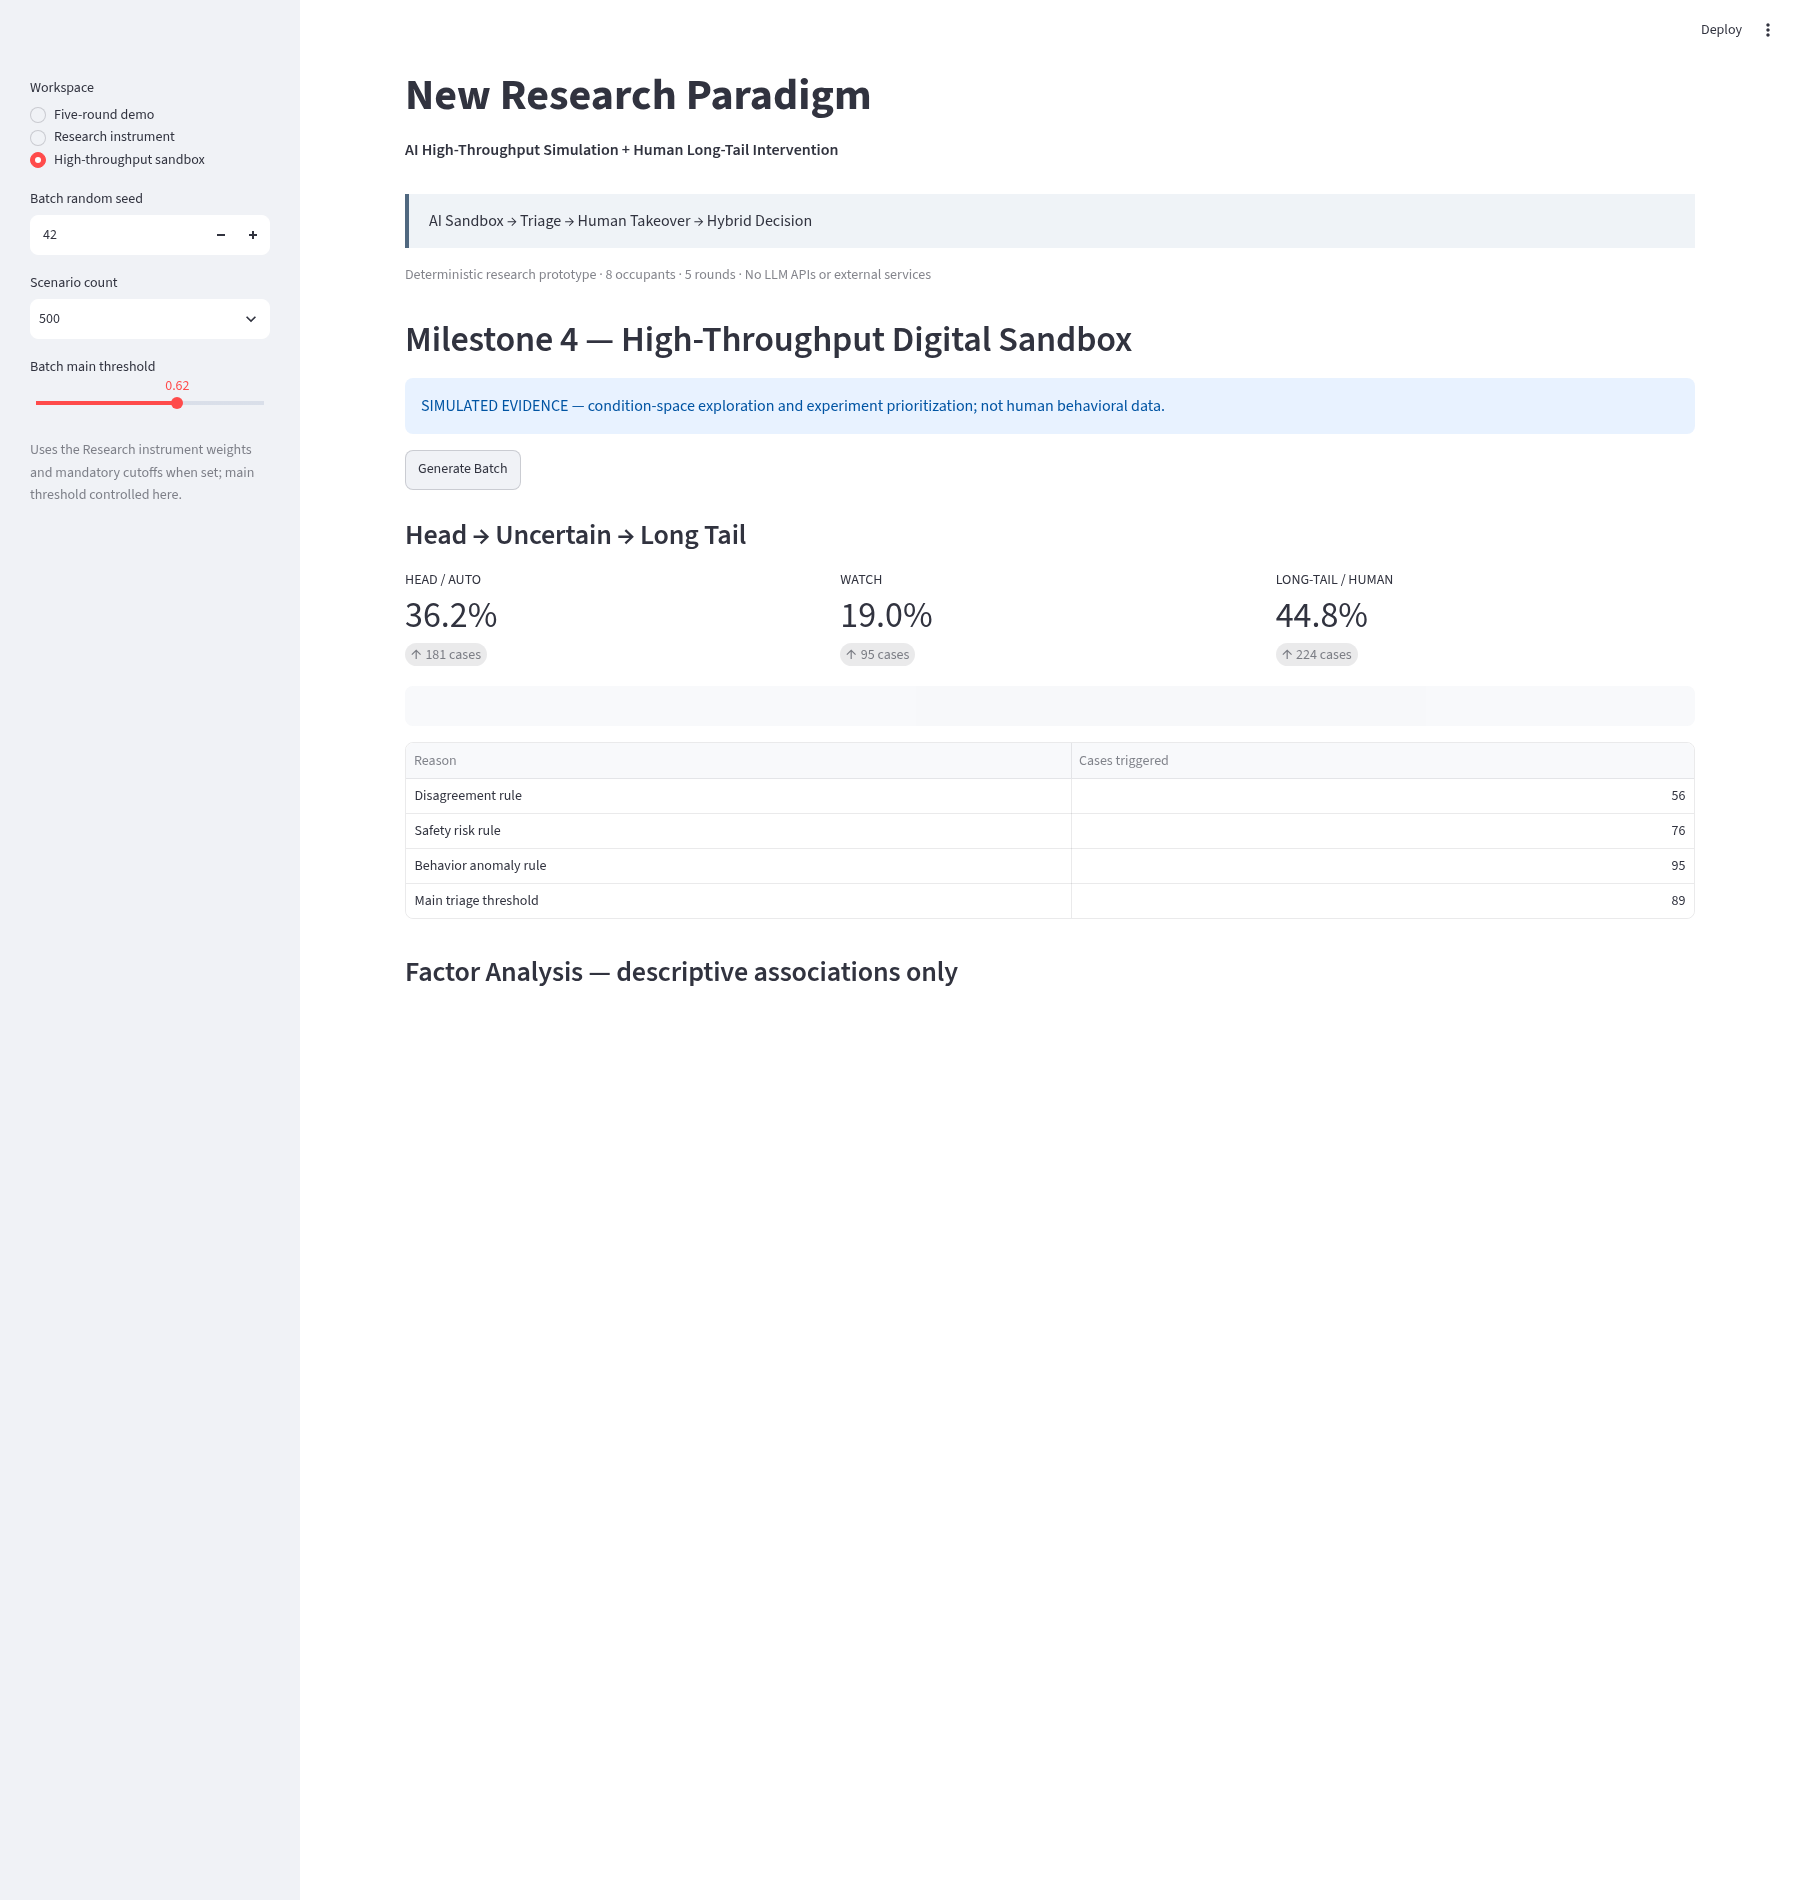
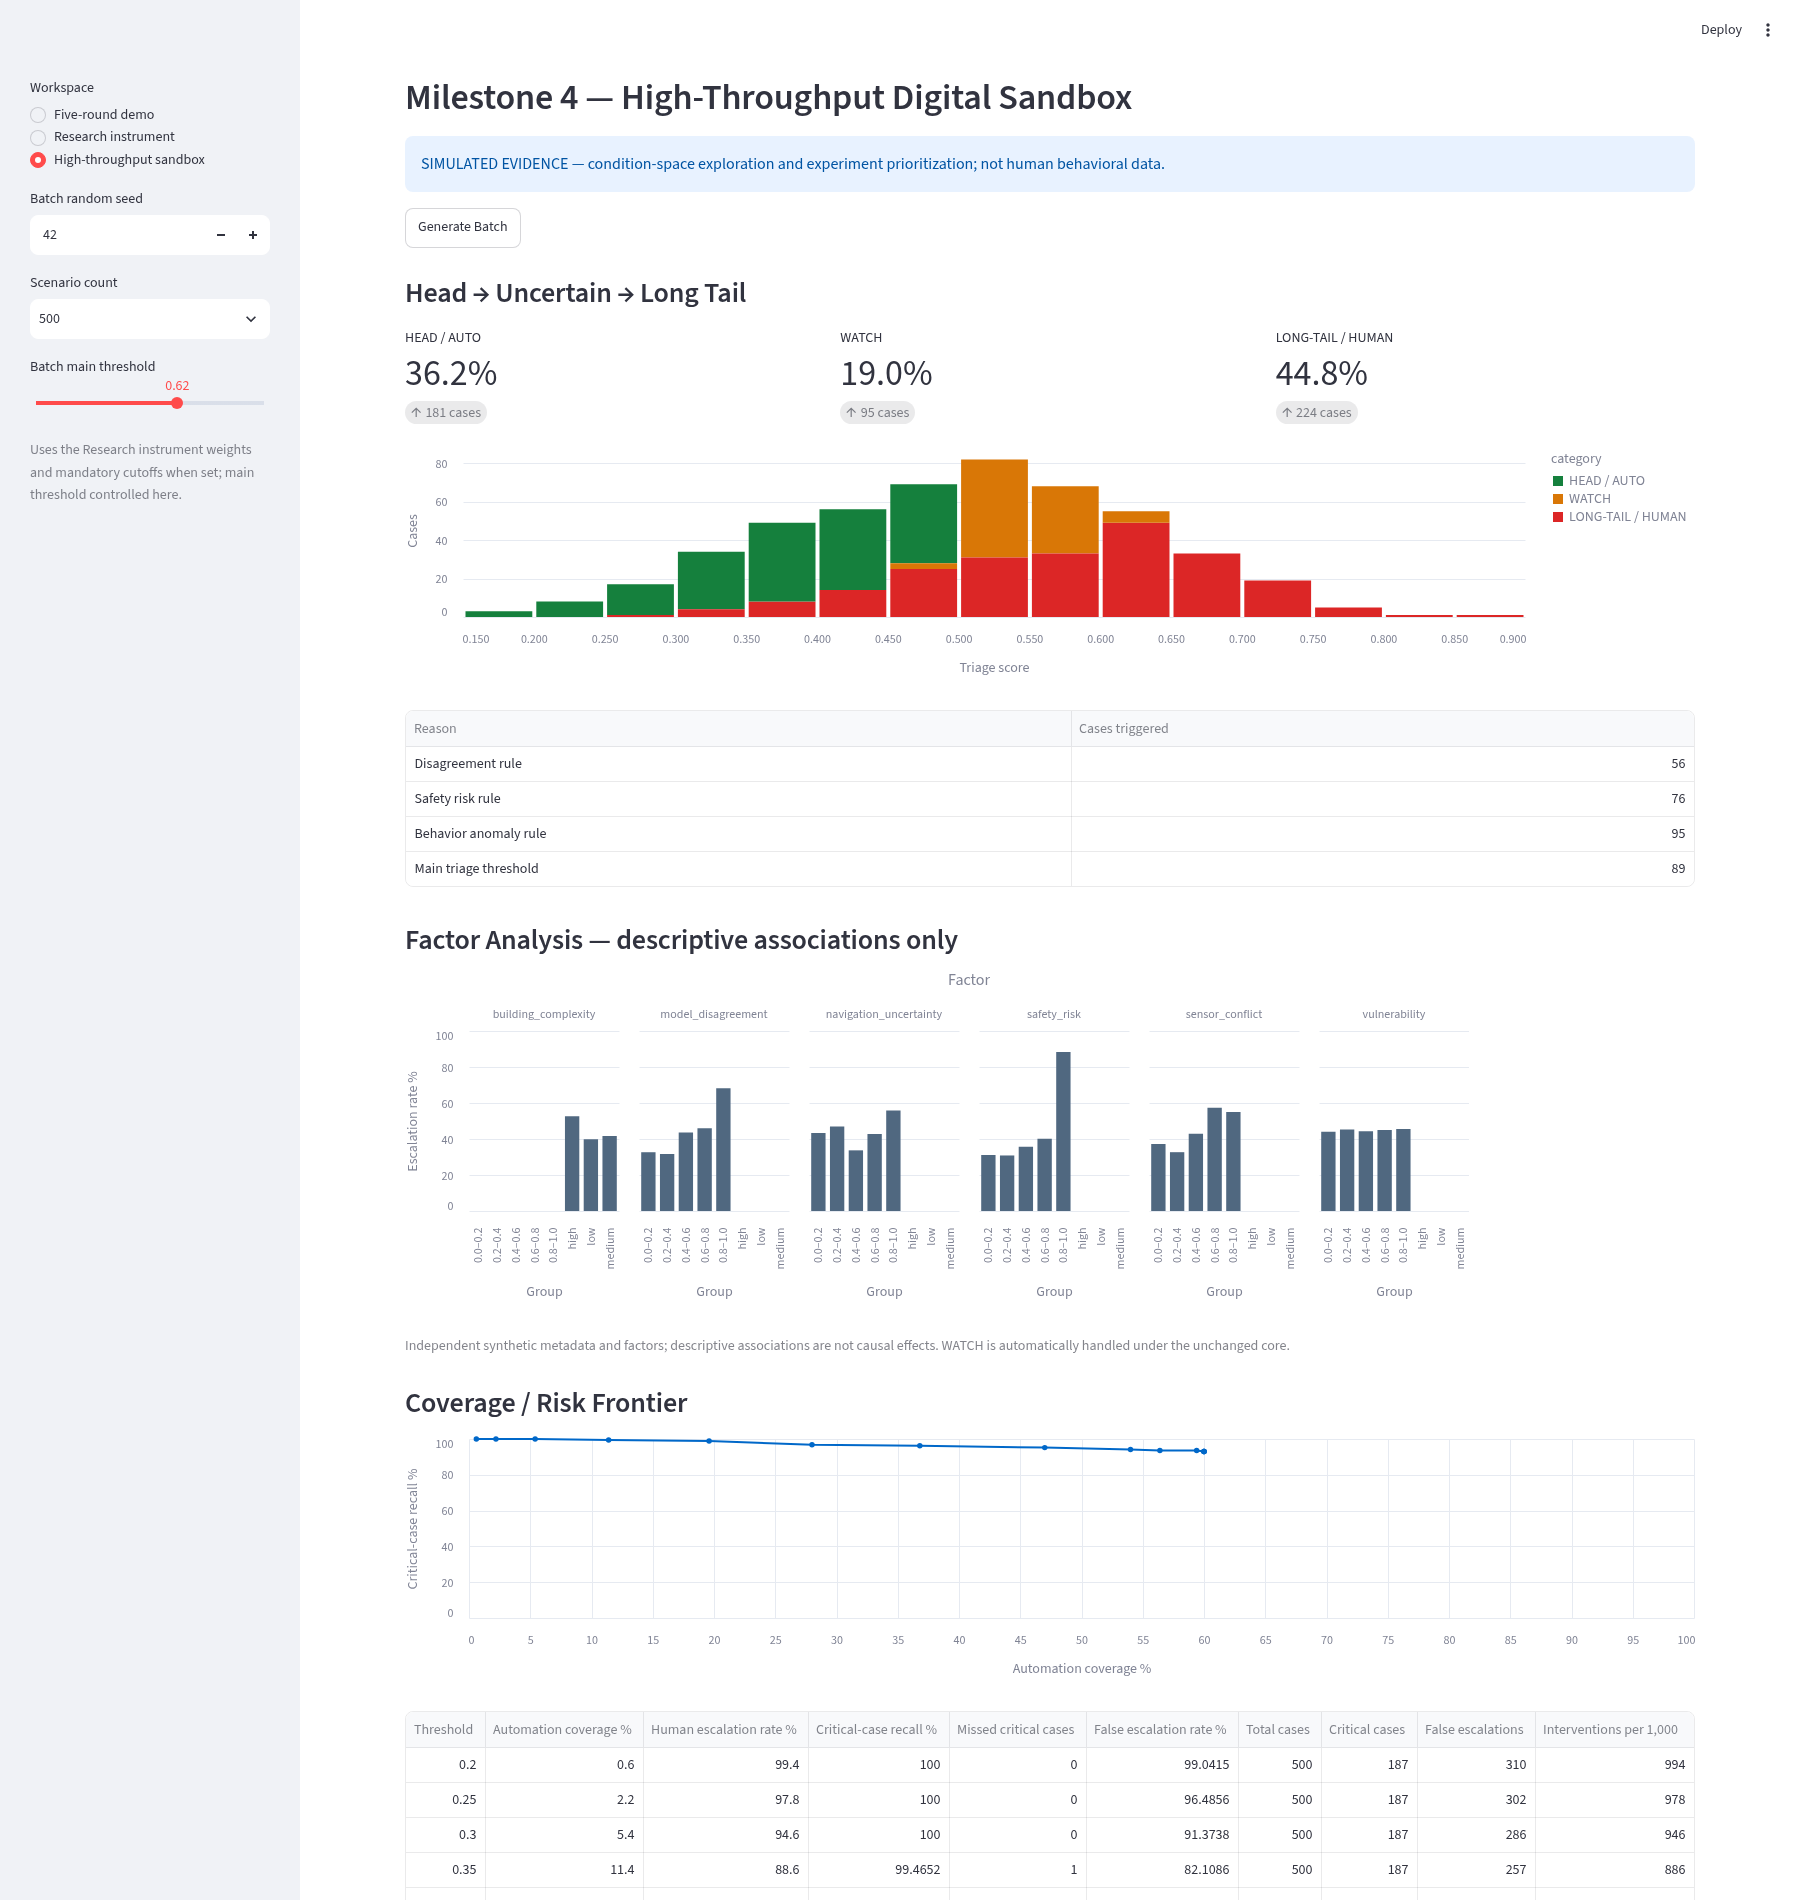
Fix sandbox map framing and screenshot render timing

diff --git a/app.py b/app.py
@@ -42,7 +42,7 @@ def floor_plan(sim, research_state=None, exit_blocked=None):
              ('Junction A', 'Junction B'), ('Junction B', 'East Corridor'),
              ('East Corridor', 'East Exit'), ('Junction A', 'West Corridor'),
              ('West Corridor', 'West Exit'), ('Junction B', 'Refuge Point')]
-    parts = ['<svg viewBox="-20 0 760 440" role="img" aria-label="Building floor plan with eight resident markers" xmlns="http://www.w3.org/2000/svg">',
+    parts = ['<svg style="width:100%;height:440px" viewBox="-20 0 760 440" role="img" aria-label="Building floor plan with eight resident markers" xmlns="http://www.w3.org/2000/svg">',
              '<rect x="-20" width="760" height="440" rx="12" fill="#f6f8fa"/>']
     for a, b in edges:
         x1, y1 = COORDS[a]
